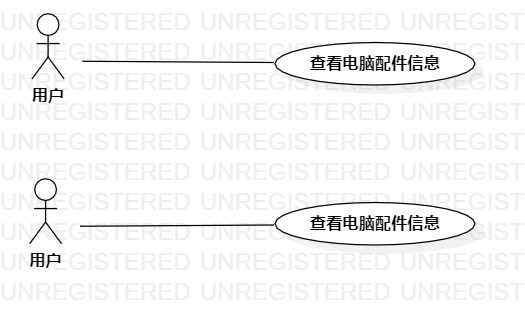
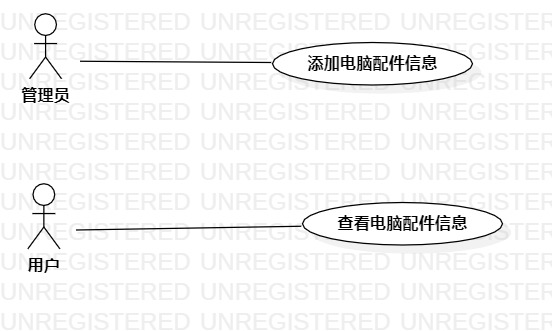
#2 #474 实验二

diff --git a/students/1714080902528/lab2.md b/students/1714080902528/lab2.md
@@ -13,12 +13,48 @@
 
 ## 三、实验步骤
 
-- 1.选题，在github上的lssue中提交给老师
-- 2.根据自己选的内容画出用例图
-- 3.将用例图保存到自己的目录下，打开git,使用git pull,git add,git commit,git push命令将用例图上传到自己的github中
-- 4.在github上编写实验报告
+- 1.选题，在github上的lssue中提交给老师  
+    #474 电脑配件信息管理系统  
+    - 1.管理员添加电脑配件信息  
+    - 2.用户查看电脑配件信息
+- 2.画图
+    - 添加一个参与者命名为管理员
+    - 添加一个用例：添加电脑配件信息
+    - 连接管理员和添加电脑配件信息
+    - 添加一个参与者命名为用户
+    - 添加一个用例：查看电脑配件信息
+    - 连接用户和查看电脑配件信息
 
 ## 四、实验结果
 
-![用例图](./Lab2_UseCaseDiagram1.jpg)
+![用例图](./Lab2_UseCaseDiagram1.jpg)  
 图1：电脑配件信息管理系统的用例图
+
+## 表1：添加电脑配件信息用例规约  
+
+用例编号  | UC01 | 备注  
+-|:-|-  
+用例名称  | 添加电脑配件信息  |   
+前置条件  |      | *可选*   
+后置条件  | 管理员把电脑配件信息添加到系统     | *可选*   
+基本流程  | 1. 管理员点击添加配件信息链接  |*用例执行成功的步骤*    
+~| 2. 系统显示添加电脑配件信息页面  |   
+~| 3. 管理员填写电脑配件的信息，点击添加按钮  |   
+~| 4. 系统**查询不到**电脑配件信息，记录电脑配件信息  |   
+~| 5. 系统提示添加成功 |  
+扩展流程  | 4.1 系统检查发现电脑配件信息已存在，**提示"系统已存在此电脑配件信息"**   |*用例执行失败*    
+~| 4.2 系统检查发现填写的数据与要求冲突，**提示"用户输入的数据不合法"**  |
+
+## 表2：查看电脑配件信息用例规约  
+
+用例编号  | UC02 | 备注  
+-|:-|-  
+用例名称  | 查看电脑配件信息  |   
+前置条件  |      | *可选*   
+后置条件  | 用户查看电脑配件信息     | *可选*   
+基本流程  | 1. 用户点击查找配件信息链接  |*用例执行成功的步骤*    
+~| 2. 系统显示查找电脑配件信息页面  |   
+~| 3. 用户填写电脑配件名称，点击查找按钮  |   
+~| 4. 系统**查询到**电脑配件信息，结果处理  |   
+~| 5. 系统显示电脑配件信息 |  
+扩展流程  | 4 系统检查发现电脑配件不存在，**提示"系统不存在此电脑配件信息"**  |*用例执行失败*    
